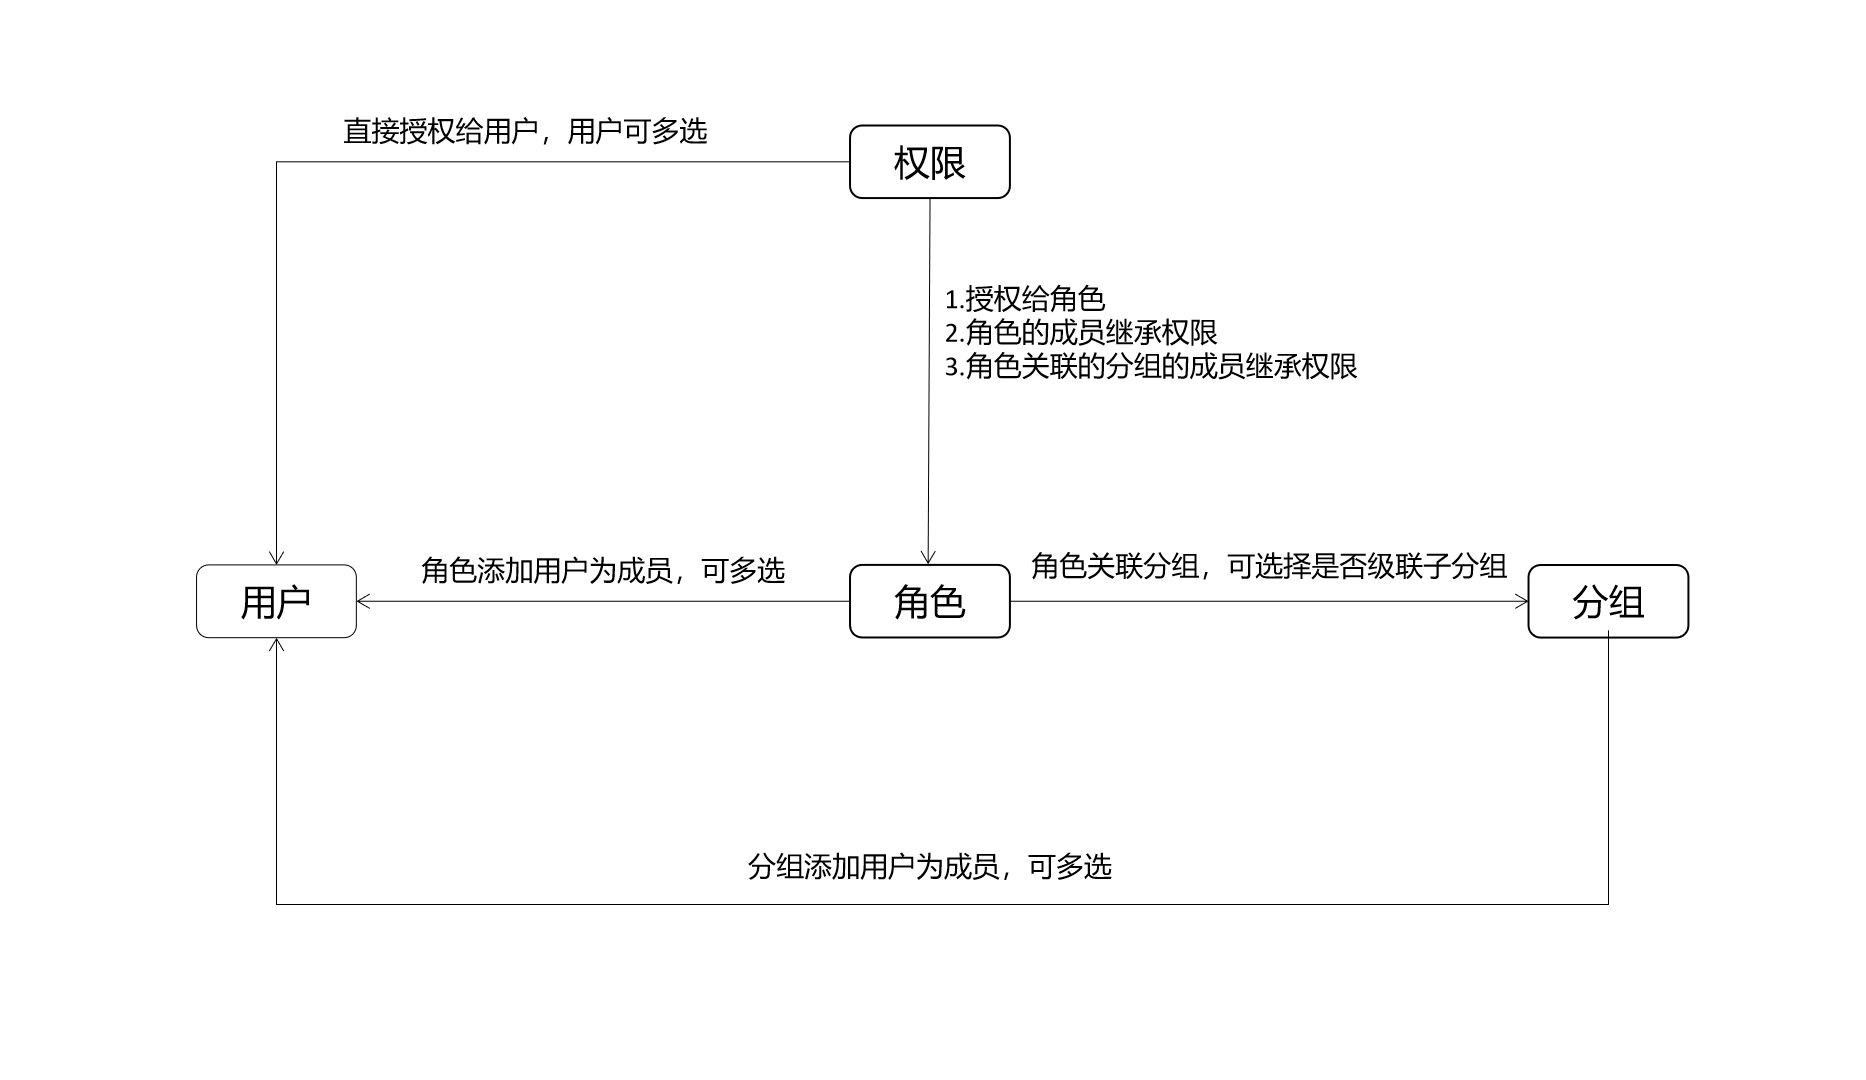
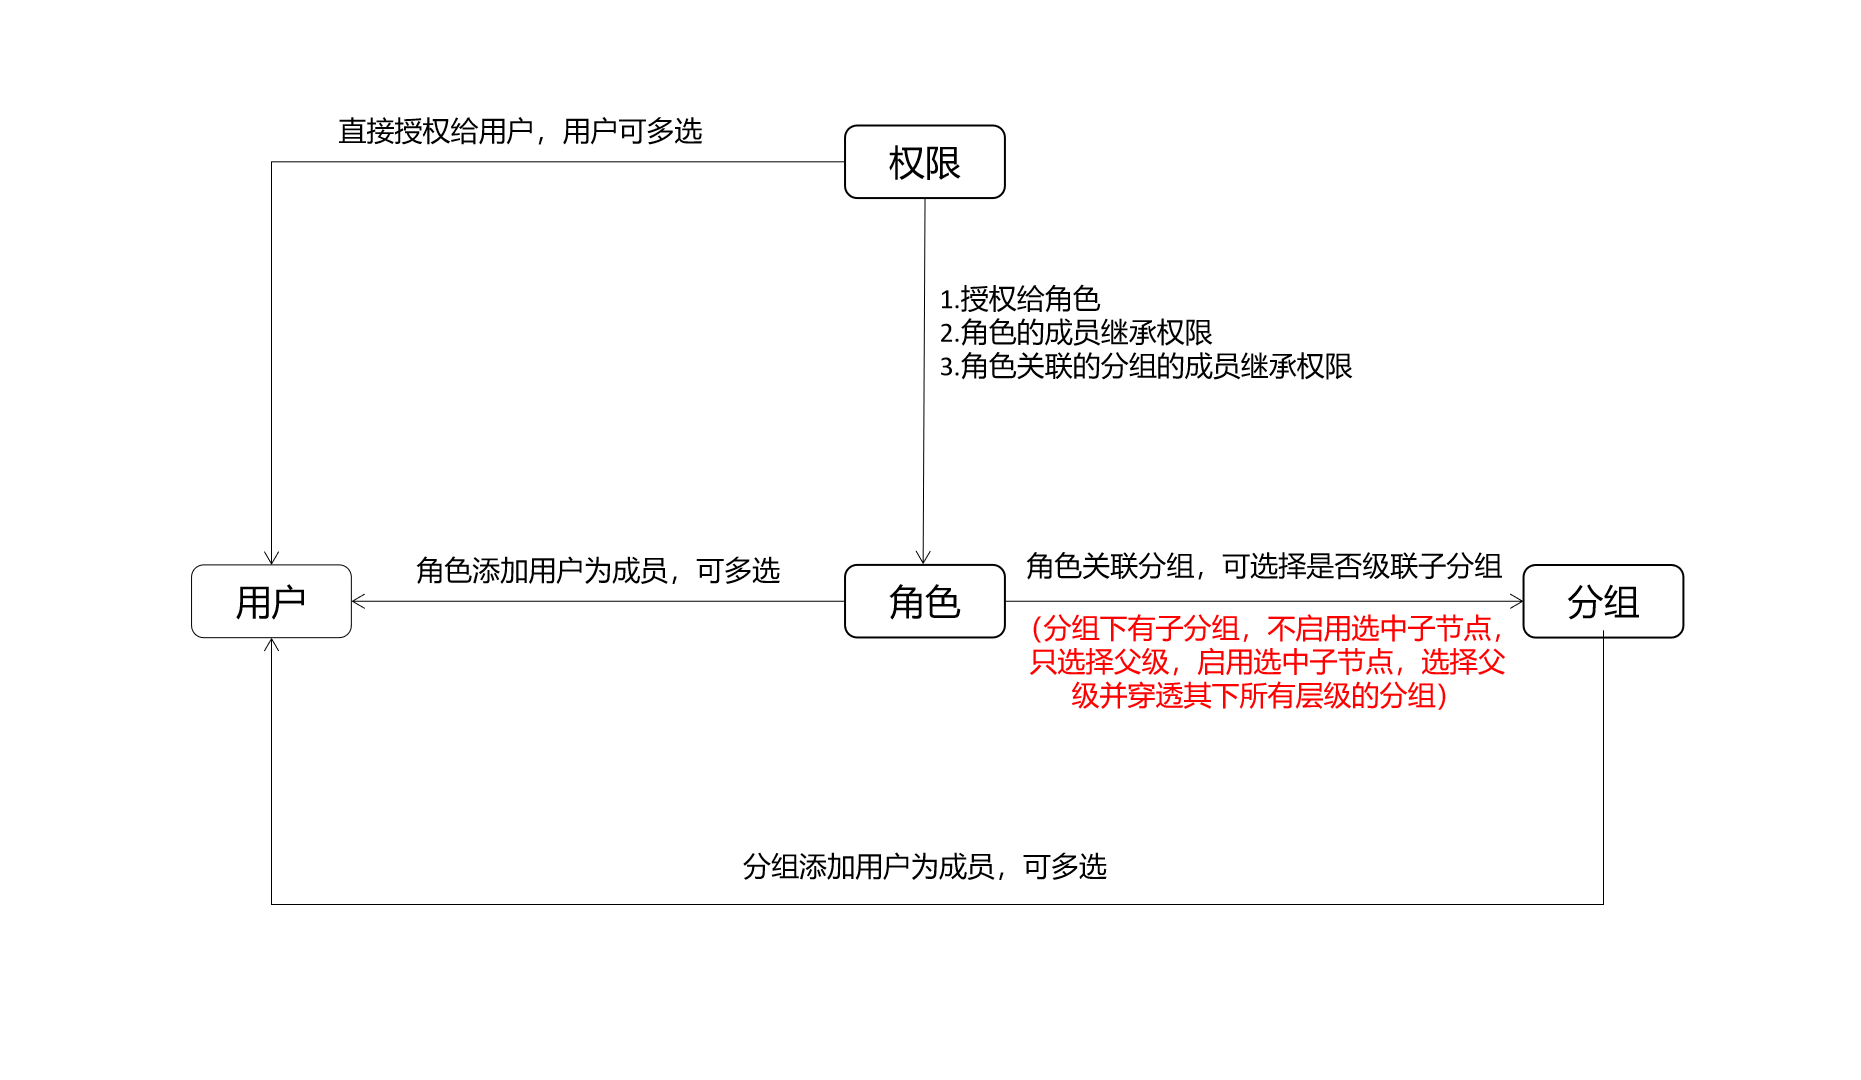
更新用户管理

diff --git a/src/main/resources/neatlogic/resources/documentonline/zh/100.系统配置/用户管理.md b/src/main/resources/neatlogic/resources/documentonline/zh/100.系统配置/用户管理.md
@@ -18,13 +18,15 @@
 ![](README_IMAGES/user/userdisable.gif)
 每个用户都有用户令牌，用户令牌的作业是用于token认证。例如调用系统接口时，可以用用户令牌通过认证。为了安全性，用户令牌支持手动更新。
 ![](README_IMAGES/user/token.png)
+普通用户没有用户管理页面的权限时，没有访问用户管理页面的权限，但是用户可以在个人设置中更新自己的用户令牌。
+![](README_IMAGES/user/token_update.gif)
 系统的内部接口都是用用户令牌认证。
 ![](README_IMAGES/user/interface_authentication_method.png)
 
 ## 角色管理
 角色管理页面支持添加、编辑、删除、添加角色成员、添加角色分组、授权操作。
 ![](README_IMAGES/user/role.png)
-角色添加关联分组时，可启用选中子节点，启用后可穿透已选的分组下的所有子级分组。
+角色添加关联分组时，可启用选中子节点，启用后可穿透已选的分组下的所有子级分组。角色关联的所有分组的所有用户也会集成角色的权限。
 ![](README_IMAGES/user/select_subnode.gif)
 
 ## 分组管理
